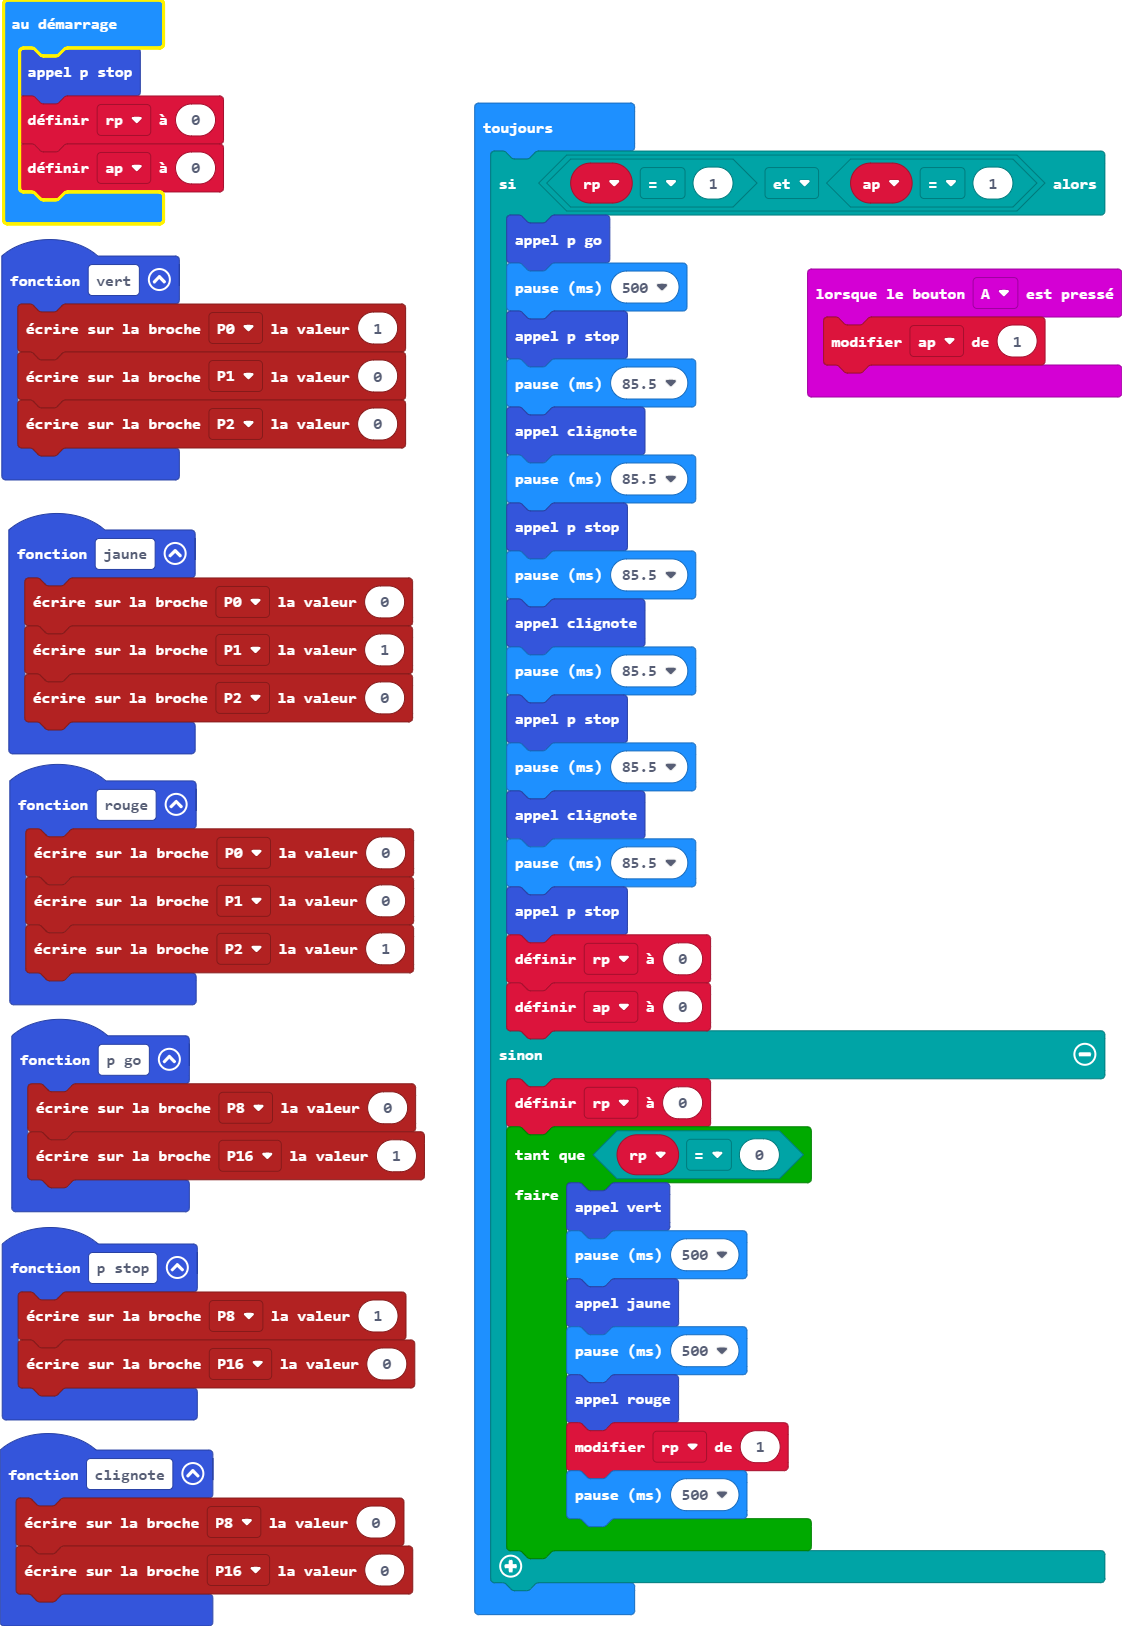
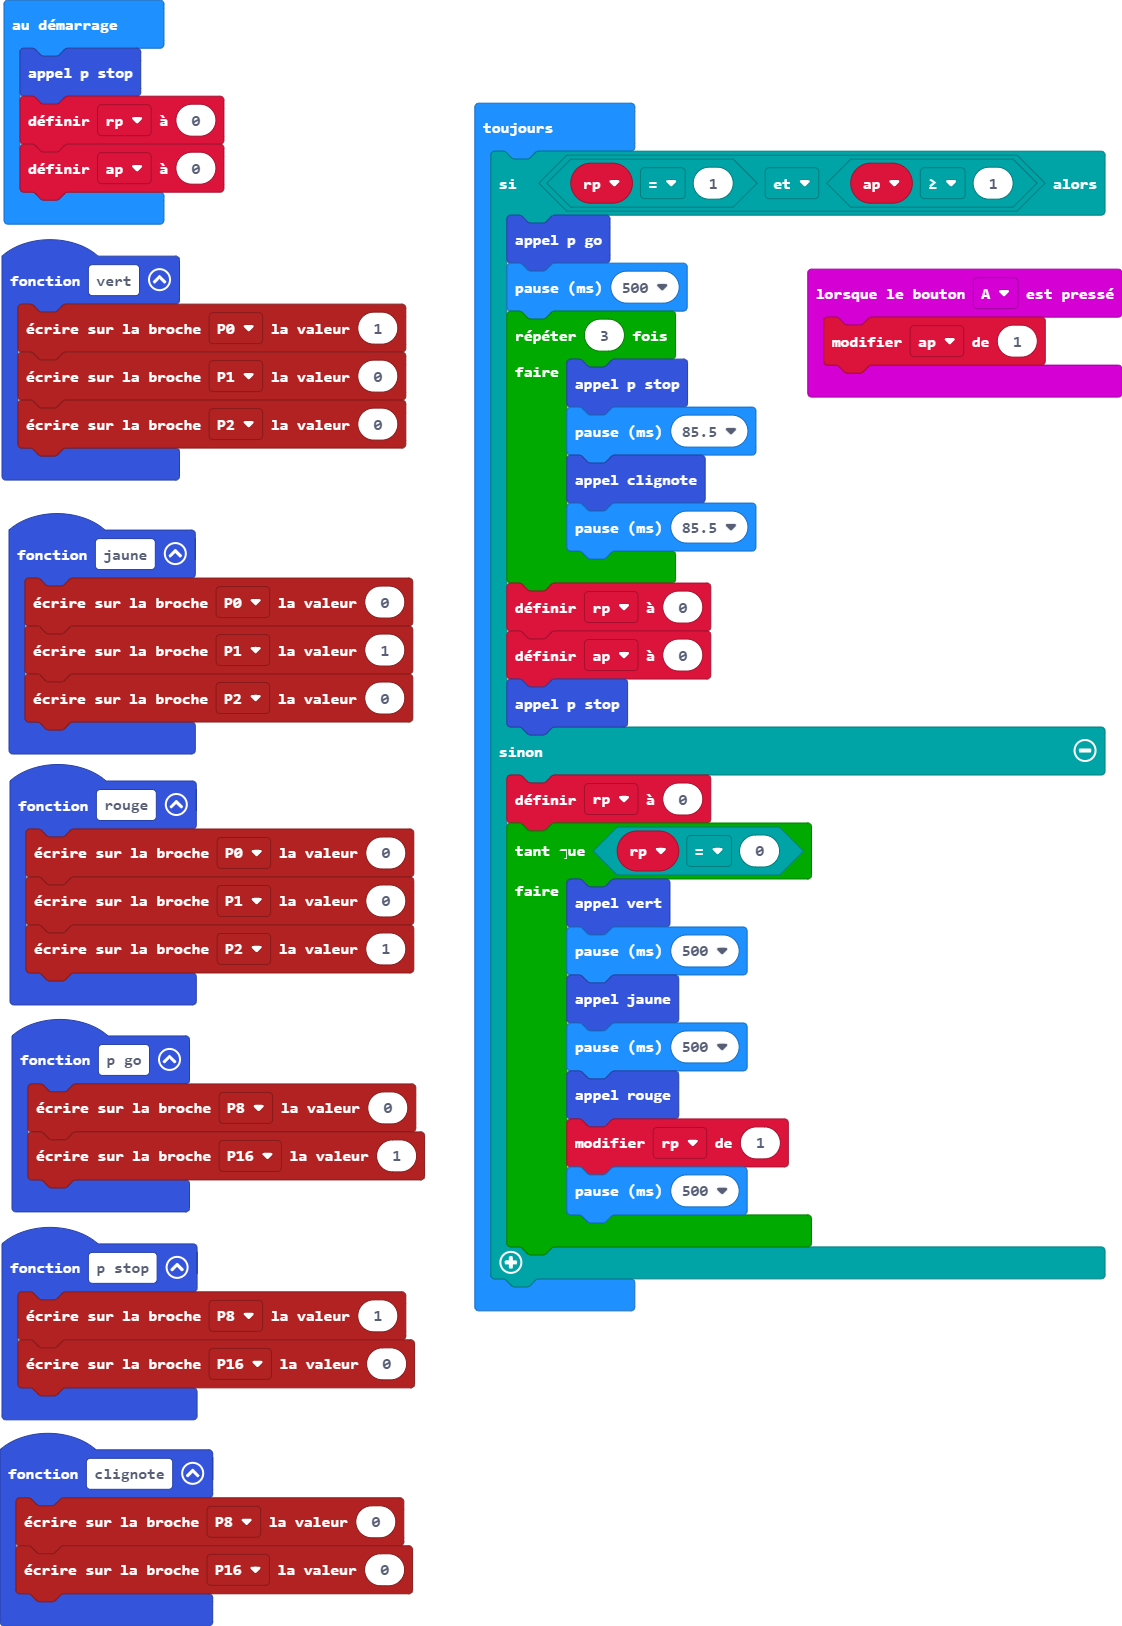
Mise à jour main.blocks, main.ts

diff --git a/main.ts b/main.ts
@@ -32,24 +32,18 @@ p_stop()
 let rp = 0
 let ap = 0
 basic.forever(function () {
-    if (rp == 1 && ap == 1) {
+    if (rp == 1 && ap >= 1) {
         p_go()
         basic.pause(500)
-        p_stop()
-        basic.pause(85.5)
-        clignote()
-        basic.pause(85.5)
-        p_stop()
-        basic.pause(85.5)
-        clignote()
-        basic.pause(85.5)
-        p_stop()
-        basic.pause(85.5)
-        clignote()
-        basic.pause(85.5)
-        p_stop()
+        for (let index = 0; index < 3; index++) {
+            p_stop()
+            basic.pause(85.5)
+            clignote()
+            basic.pause(85.5)
+        }
         rp = 0
         ap = 0
+        p_stop()
     } else {
         rp = 0
         while (rp == 0) {
